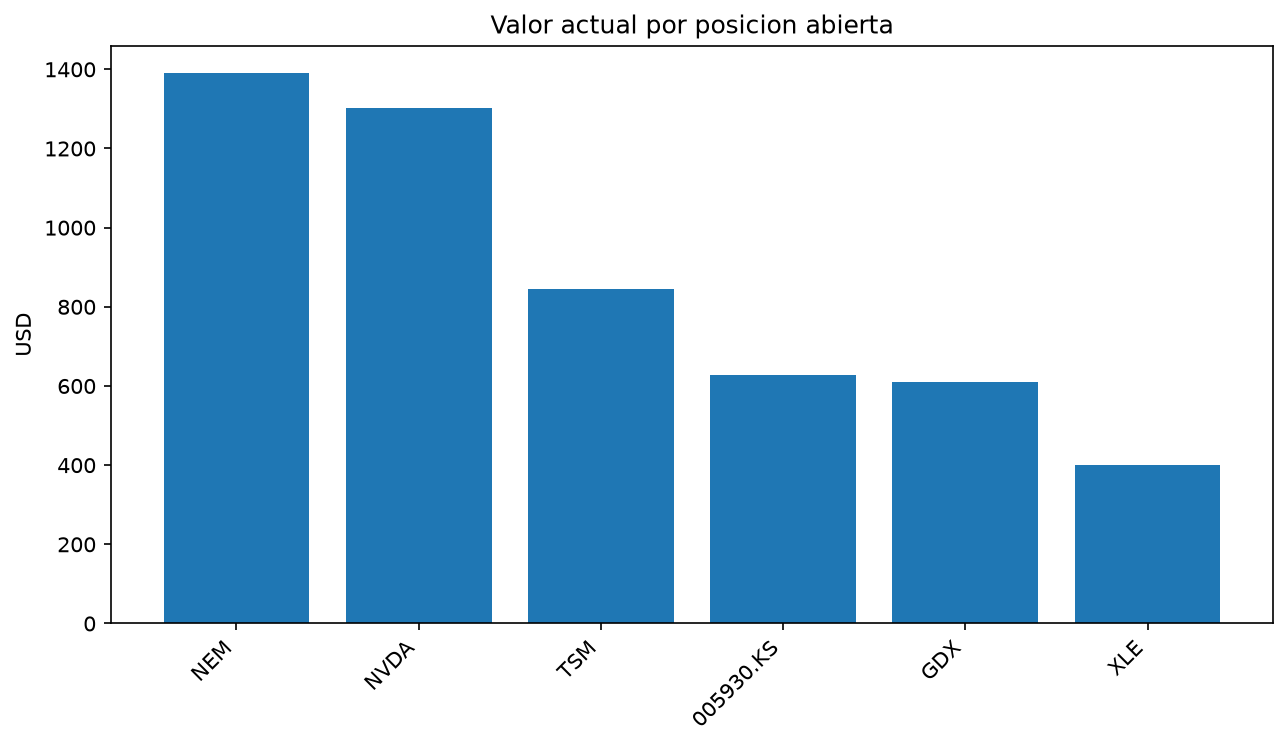
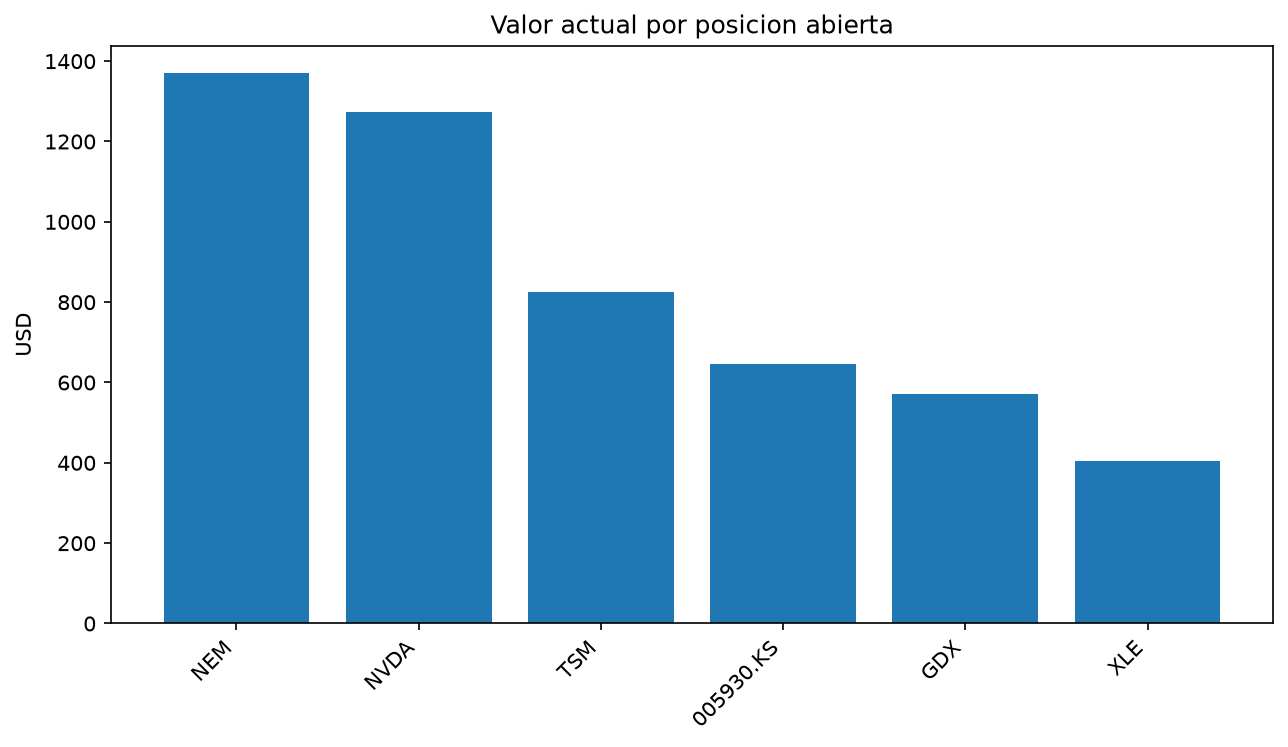
Actualiza reporte visual R3 (2026-10-23)

diff --git a/reportes/reporte_r3_2026-10-23.md b/reportes/reporte_r3_2026-10-23.md
@@ -1,0 +1,50 @@
+# Reporte Visual de Desempeño — CTA-003 (R3, Sprint 8)
+
+**Generado el:** 2026-10-23
+
+## Métricas principales
+
+- Patrimonio actual: **$9788.31** (capital inicial: $10000.00)
+- Retorno total: **-2.12%**
+- Máximo drawdown: **-4.08%**
+- Semanas operadas: **2**
+- Órdenes ejecutadas en total: **9**
+- Tickers distintos operados: **6**
+- Circuit breaker: 🟢 inactivo
+
+## Equity Curve
+
+![Equity Curve](equity_curve.png)
+
+## P&L Acumulado
+
+![P&L Acumulado](pnl_acumulado.png)
+
+## Posiciones Abiertas
+
+![Posiciones Abiertas](posiciones_abiertas.png)
+
+| ticker    |   cantidad |   precio_promedio_compra |   precio_actual |   costo_total |   valor_actual |   pnl_no_realizado |   pnl_pct |
+|:----------|-----------:|-------------------------:|----------------:|--------------:|---------------:|-------------------:|----------:|
+| NEM       |         12 |                   119.27 |          114.11 |       1431.27 |        1369.32 |             -61.95 |     -4.33 |
+| NVDA      |          6 |                   215.01 |          212.21 |       1290.06 |        1273.26 |             -16.8  |     -1.3  |
+| TSM       |          2 |                   419.98 |          412.35 |        839.97 |         824.7  |             -15.27 |     -1.82 |
+| 005930.KS |          4 |                   183.42 |          161.81 |        733.68 |         647.26 |             -86.42 |    -11.78 |
+| GDX       |          7 |                    87.02 |           81.69 |        609.14 |         571.83 |             -37.31 |     -6.13 |
+| XLE       |          6 |                    66.56 |           67.57 |        399.36 |         405.42 |               6.06 |      1.52 |
+
+## Operaciones Realizadas
+
+![Operaciones por semana](operaciones_por_semana.png)
+
+|   semana | fecha               | ticker    |   cantidad |   precio_compra |   costo |
+|---------:|:--------------------|:----------|-----------:|----------------:|--------:|
+|        1 | 2026-09-18 00:00:00 | 005930.KS |          4 |          183.42 |  733.68 |
+|        1 | 2026-09-18 00:00:00 | NEM       |          7 |          121.76 |  852.32 |
+|        1 | 2026-09-18 00:00:00 | NVDA      |          4 |          213.9  |  855.6  |
+|        1 | 2026-09-18 00:00:00 | TSM       |          1 |          417.72 |  417.72 |
+|        8 | 2026-10-16 00:00:00 | GDX       |          7 |           87.02 |  609.14 |
+|        8 | 2026-10-16 00:00:00 | NEM       |          5 |          115.79 |  578.95 |
+|        8 | 2026-10-16 00:00:00 | NVDA      |          2 |          217.23 |  434.46 |
+|        8 | 2026-10-16 00:00:00 | TSM       |          1 |          422.25 |  422.25 |
+|        8 | 2026-10-16 00:00:00 | XLE       |          6 |           66.56 |  399.36 |
